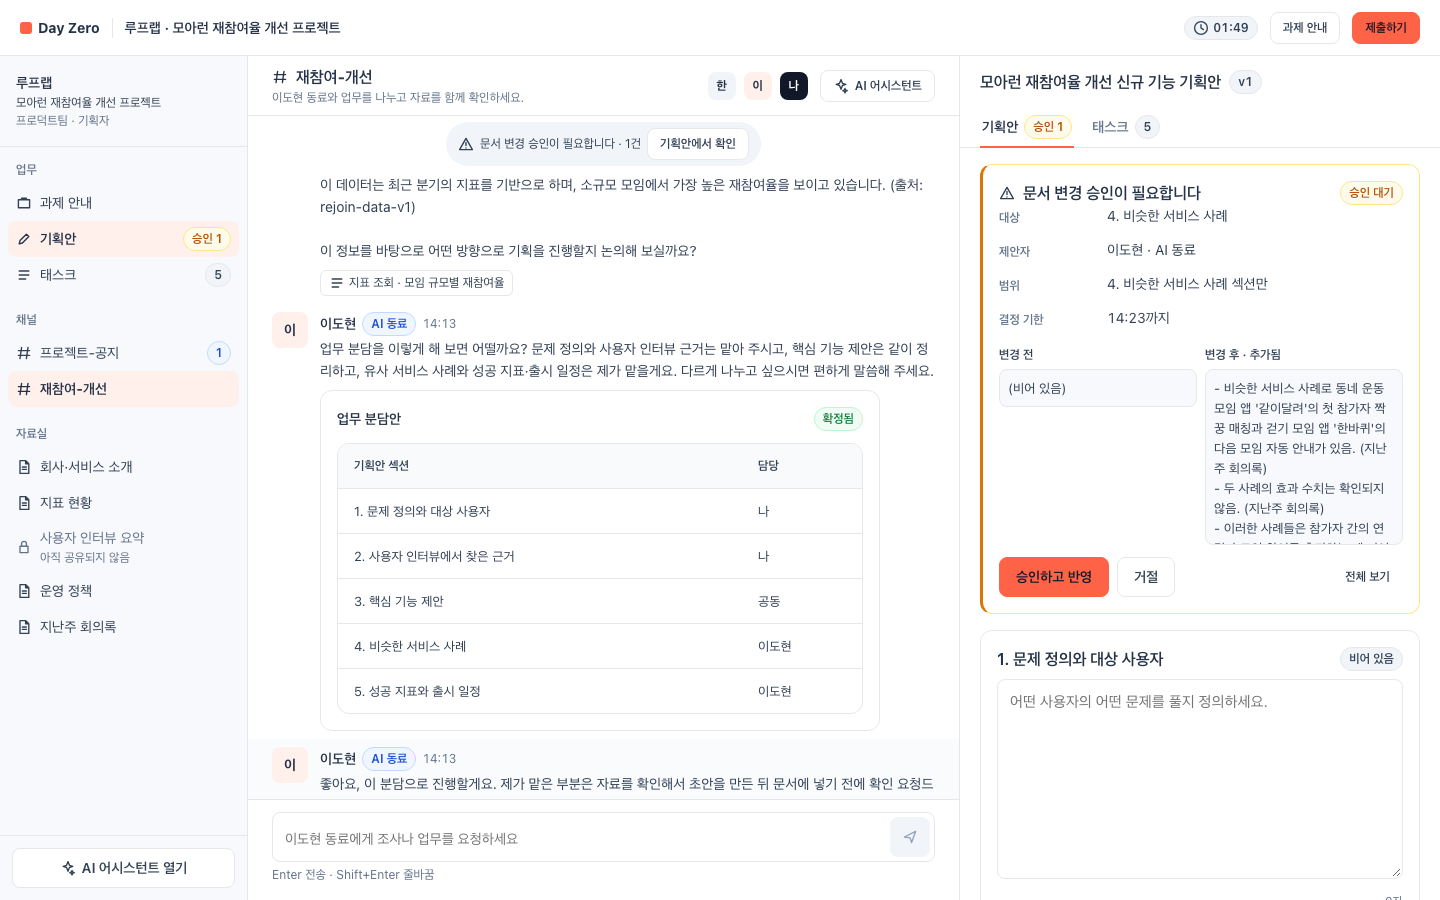
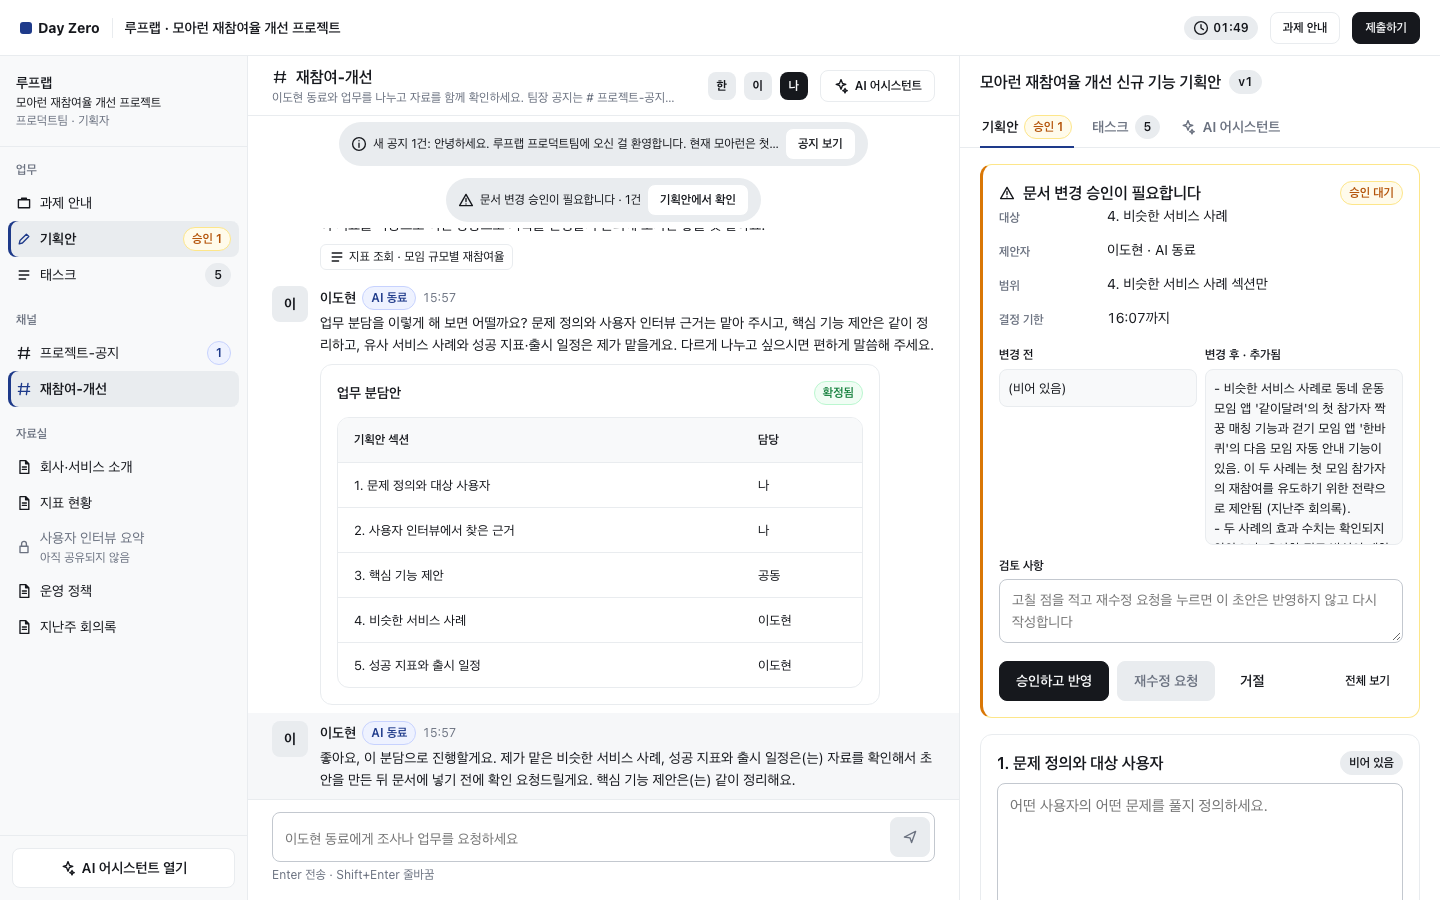
style(web): DESIGN_GUIDE 색상 변경 적용 — Cool gray + Ink blue 팔레트, 딥 차콜 주요 버튼
변경 근거
- docs/DESIGN_GUIDE.md 색상 개정(사용자 수정본, 이 커밋에 포함): 메인 6색 #F8F9FA #E9ECEF #C3C8CF #6B7280 #16181D #1E3A8A,
  Primary #16181D / hover #2B2E34 / on-primary #F8F9FA, accent(Ink blue) #1E3A8A, info·focus #1E3A8A,
  info soft/border #EEF2FF/#C7D2FE, border #E9ECEF, border-strong #C3C8CF, overlay rgba(22,24,29,.48)

적용
- styles/tokens.css: 가이드 §10.1 값으로 색상 토큰 전부 교체, --color-accent 추가
- 하드코딩 색상 제거: focus 링 rgba(30,58,138,.28), 비활성 버튼 글자 muted(#6B7280)·배경 #E9ECEF,
  info 배지 글자 Ink blue, 표 헤더 배경 background 토큰, drawer backdrop·메시지 hover를 새 팔레트 파생값으로,
  '나' 아바타 글자 on-primary
- 가이드 사용 규칙 반영: 입력·composer 테두리 #C3C8CF(hover 동일), 브랜드 점·활성 탭 밑줄·링크는 Ink blue,
  활성 내비게이션은 Cool gray 배경 + Ink blue 표시선(inset 3px)·아이콘
- 성공·경고·오류 배지의 진한 글자색은 의미 상태 보조색으로 유지(가이드 허용)
- 채널 헤더 참여자 아바타가 줄바꿈되던 문제 수정, 관리자 내비 링크 밑줄 제거

검증
- npx tsc --noEmit, eslint 통과
- Chrome headless 전체 흐름 재캡처(evidence/screens 6장 갱신), 1024px 가로 overflow 없음

diff --git a/frontend/src/app/globals.css b/frontend/src/app/globals.css
@@ -14,7 +14,7 @@ h2 { font-size: 20px; line-height: 30px; font-weight: 700; }
 h3 { font-size: 16px; line-height: 24px; font-weight: 600; }
 h4 { font-size: 14px; line-height: 22px; font-weight: 600; }
 p { margin: 0; }
-a { color: var(--color-info); }
+a { color: var(--color-accent); }
 button, input, textarea, select { font: inherit; }
 :focus-visible { outline: 2px solid var(--color-focus); outline-offset: 2px; }
 .small { font-size: 12px; line-height: 18px; }
@@ -43,8 +43,8 @@ button, input, textarea, select { font: inherit; }
 }
 .btn:hover { background: var(--color-neutral-subtle); }
 .btn:active { transform: translateY(1px); }
-.btn:focus-visible { outline: none; box-shadow: 0 0 0 3px rgba(37, 99, 235, 0.28); }
-.btn:disabled, .btn[aria-disabled="true"] { background: var(--color-neutral-subtle); color: #94a3b8; border-color: var(--color-neutral-subtle); cursor: not-allowed; transform: none; }
+.btn:focus-visible { outline: none; box-shadow: 0 0 0 3px rgba(30, 58, 138, 0.28); }
+.btn:disabled, .btn[aria-disabled="true"] { background: var(--color-neutral-subtle); color: var(--color-muted); border-color: var(--color-neutral-subtle); cursor: not-allowed; transform: none; }
 .btn-primary { background: var(--color-primary); border-color: var(--color-primary); color: var(--color-on-primary); }
 .btn-primary:hover { background: var(--color-primary-hover); border-color: var(--color-primary-hover); }
 .btn-tertiary { background: transparent; border-color: transparent; }
@@ -58,7 +58,7 @@ button, input, textarea, select { font: inherit; }
 /* ---------- inputs (§6.2) ---------- */
 .field > label, .label { display: block; font-weight: 600; color: var(--color-heading); margin-bottom: 4px; }
 .input, .textarea, .select {
-  width: 100%; border: 1px solid var(--color-border); border-radius: var(--radius-md);
+  width: 100%; border: 1px solid var(--color-border-strong); border-radius: var(--radius-md);
   padding: 9px 12px; color: var(--color-body); background: var(--color-surface); min-height: 40px;
 }
 .select { width: auto; min-height: 32px; padding: 4px 8px; }
@@ -77,7 +77,7 @@ button, input, textarea, select { font: inherit; }
   font-size: 12px; line-height: 18px; font-weight: 600; white-space: nowrap;
   background: var(--color-neutral-subtle); color: var(--color-body); border: 1px solid var(--color-border);
 }
-.badge.info { background: var(--color-info-soft); border-color: var(--color-info-border); color: #1d4ed8; }
+.badge.info { background: var(--color-info-soft); border-color: var(--color-info-border); color: var(--color-info); }
 .badge.success { background: var(--color-success-soft); border-color: var(--color-success-border); color: #15803d; }
 .badge.warning { background: var(--color-warning-soft); border-color: var(--color-warning-border); color: #b45309; }
 .badge.error { background: var(--color-error-soft); border-color: var(--color-error-border); color: #b91c1c; }
@@ -91,11 +91,11 @@ button, input, textarea, select { font: inherit; }
 /* ---------- tabs (§6.5) ---------- */
 .tabs { display: flex; gap: var(--space-4); }
 .tab { height: 40px; border: 0; background: none; padding: 0 2px; cursor: pointer; color: var(--color-muted); font-weight: 600; border-bottom: 2px solid transparent; margin-bottom: -1px; display: inline-flex; align-items: center; gap: 6px; }
-.tab[aria-selected="true"] { color: var(--color-heading); border-bottom-color: var(--color-primary); }
+.tab[aria-selected="true"] { color: var(--color-heading); border-bottom-color: var(--color-accent); }
 
 /* ---------- table (§6.8) ---------- */
 table { width: 100%; border-collapse: collapse; }
-th { height: 44px; background: #f8fafc; color: var(--color-body); font-size: 12px; font-weight: 600; text-align: left; padding: 0 16px; border-bottom: 1px solid var(--color-border); }
+th { height: 44px; background: var(--color-background); color: var(--color-body); font-size: 12px; font-weight: 600; text-align: left; padding: 0 16px; border-bottom: 1px solid var(--color-border); }
 td { padding: 12px 16px; border-bottom: 1px solid var(--color-border); vertical-align: middle; font-size: 13px; line-height: 20px; }
 tbody tr:hover { background: var(--color-neutral-subtle); }
 td.num, th.num { text-align: right; font-variant-numeric: tabular-nums; }
@@ -104,7 +104,7 @@ td.num, th.num { text-align: right; font-variant-numeric: tabular-nums; }
 
 /* ---------- modal / drawer (§6.4, §2.6) ---------- */
 .backdrop { position: fixed; inset: 0; background: var(--color-overlay); z-index: 80; display: flex; align-items: center; justify-content: center; padding: 32px 16px; }
-.backdrop.drawer-backdrop { z-index: 60; background: rgba(15, 23, 42, 0.24); display: block; padding: 0; }
+.backdrop.drawer-backdrop { z-index: 60; background: rgba(22, 24, 29, 0.24); display: block; padding: 0; }
 .modal { background: var(--color-surface); border-radius: var(--radius-lg); box-shadow: var(--shadow-md); width: 640px; max-width: 100%; max-height: calc(100dvh - 64px); display: flex; flex-direction: column; z-index: 90; }
 .modal.sm { width: 480px; } .modal.lg { width: 720px; }
 .modal-head { padding: 20px 24px 0; }
@@ -124,7 +124,7 @@ td.num, th.num { text-align: right; font-variant-numeric: tabular-nums; }
 html.exam-fullscreen, html.exam-fullscreen body { height: 100%; overflow: hidden; overscroll-behavior: none; }
 .topbar { display: flex; align-items: center; gap: var(--space-3); padding: 0 20px; background: var(--color-surface); border-bottom: 1px solid var(--color-border); z-index: 20; min-width: 0; }
 .wordmark { font-weight: 700; color: var(--color-heading); display: inline-flex; align-items: center; gap: 6px; white-space: nowrap; text-decoration: none; }
-.wordmark-dot { width: 12px; height: 12px; border-radius: 3px; background: var(--color-primary); }
+.wordmark-dot { width: 12px; height: 12px; border-radius: 3px; background: var(--color-accent); }
 .vdivider { width: 1px; height: 20px; background: var(--color-border); flex: none; }
 .project-name { color: var(--color-heading); font-weight: 600; white-space: nowrap; overflow: hidden; text-overflow: ellipsis; min-width: 0; }
 .ws-main { display: grid; grid-template-columns: var(--workspace-nav-width) minmax(460px, 1fr) minmax(420px, var(--work-panel-width)); min-height: 0; }
@@ -134,9 +134,10 @@ html.exam-fullscreen, html.exam-fullscreen body { height: 100%; overflow: hidden
 .ws-nav-context { padding: 16px; border-bottom: 1px solid var(--color-border); }
 .ws-nav-group { padding: 12px 8px 4px; }
 .ws-nav-title { font-size: 12px; font-weight: 600; color: var(--color-muted); padding: 0 8px 4px; }
-.nav-item { display: flex; align-items: center; gap: 8px; width: 100%; min-height: 36px; padding: 6px 8px; border: 0; background: none; border-radius: var(--radius-md); color: var(--color-body); cursor: pointer; text-align: left; }
+.nav-item { display: flex; align-items: center; gap: 8px; width: 100%; min-height: 36px; padding: 6px 8px; border: 0; background: none; border-radius: var(--radius-md); color: var(--color-body); cursor: pointer; text-align: left; text-decoration: none; }
 .nav-item:hover { background: var(--color-neutral-subtle); }
-.nav-item[aria-current="true"] { background: var(--color-primary-soft); color: var(--color-heading); font-weight: 600; }
+.nav-item[aria-current="true"] { background: var(--color-primary-soft); color: var(--color-heading); font-weight: 600; box-shadow: inset 3px 0 0 var(--color-accent); }
+.nav-item[aria-current="true"] .icon { color: var(--color-accent); }
 .nav-item:disabled { color: var(--color-muted); cursor: not-allowed; background: none; }
 .nav-item .count { margin-left: auto; }
 .ws-nav-foot { margin-top: auto; padding: 12px; border-top: 1px solid var(--color-border); }
@@ -144,15 +145,17 @@ html.exam-fullscreen, html.exam-fullscreen body { height: 100%; overflow: hidden
 /* ---------- messenger (§4.4, §6.3) ---------- */
 .messenger { display: flex; flex-direction: column; overflow: hidden; }
 .channel-head { height: 60px; flex: none; padding: 0 24px; border-bottom: 1px solid var(--color-border); display: flex; align-items: center; gap: var(--space-3); }
+.channel-head > div { min-width: 0; flex: 1 1 auto; }
+.channel-head > .row, .channel-head > .btn { flex: none; flex-wrap: nowrap; }
 .msg-list { flex: 1; min-height: 0; overflow: auto; padding: 12px 0; position: relative; }
 .msg-list-inner { max-width: 768px; }
 .msg { display: grid; grid-template-columns: 36px minmax(0, 1fr); gap: 12px; padding: 8px 24px; }
-.msg:hover { background: rgba(241, 245, 249, 0.4); }
+.msg:hover { background: rgba(233, 236, 239, 0.4); }
 .msg.me { background: var(--color-background); }
 .avatar { width: 36px; height: 36px; border-radius: var(--radius-md); display: inline-flex; align-items: center; justify-content: center; font-weight: 700; font-size: 14px; background: var(--color-neutral-subtle); color: var(--color-heading); flex: none; }
 .avatar.colleague { background: var(--color-primary-soft); }
-.avatar.me { background: var(--color-neutral-strong); color: #fff; }
-.avatar.assistant { background: var(--color-info-soft); color: var(--color-info); }
+.avatar.me { background: var(--color-neutral-strong); color: var(--color-on-primary); }
+.avatar.assistant { background: var(--color-info-soft); color: var(--color-accent); }
 .msg-head { display: flex; align-items: center; gap: 6px; flex-wrap: wrap; }
 .msg-name { font-weight: 600; color: var(--color-heading); }
 .msg-body { margin-top: 2px; white-space: pre-wrap; overflow-wrap: anywhere; }
@@ -167,7 +170,7 @@ html.exam-fullscreen, html.exam-fullscreen body { height: 100%; overflow: hidden
 .run-card.failed { border-color: var(--color-warning-border); background: var(--color-warning-soft); }
 .new-msg { position: sticky; bottom: 8px; display: flex; justify-content: center; }
 .composer { flex: none; border-top: 1px solid var(--color-border); padding: 12px 24px 16px; }
-.composer-box { position: relative; display: flex; gap: 8px; align-items: flex-end; border: 1px solid var(--color-border); border-radius: var(--radius-md); padding: 4px 4px 4px 12px; background: var(--color-surface); }
+.composer-box { position: relative; display: flex; gap: 8px; align-items: flex-end; border: 1px solid var(--color-border-strong); border-radius: var(--radius-md); padding: 4px 4px 4px 12px; background: var(--color-surface); }
 .composer-box:focus-within { outline: 2px solid var(--color-focus); outline-offset: -1px; border-color: transparent; }
 .composer-box textarea { flex: 1; border: 0; resize: none; min-height: 36px; max-height: 144px; padding: 7px 0; outline: none; color: var(--color-body); background: transparent; line-height: 22px; }
 .spin { width: 14px; height: 14px; border-radius: 50%; border: 2px solid var(--color-info-border); border-top-color: var(--color-info); animation: spin 0.8s linear infinite; flex: none; }

diff --git a/frontend/src/styles/tokens.css b/frontend/src/styles/tokens.css
@@ -1,32 +1,34 @@
-/* DESIGN_GUIDE §2 / §10.1 — PRD 6.1 사용자 확정 팔레트. 화면별 임의 팔레트 추가 금지 */
+/* DESIGN_GUIDE §2 / §10.1 — Cool gray + Ink blue 메인 6색(#F8F9FA #E9ECEF #C3C8CF #6B7280 #16181D #1E3A8A).
+   성공·경고·오류·Surface는 의미 전달용 보조 토큰. 화면별 임의 팔레트 추가 금지 */
 :root {
-  --color-primary: #ff6347;
-  --color-primary-hover: #e64f37;
-  --color-primary-soft: #fff0ec;
-  --color-on-primary: #111827;
-  --color-heading: #253247;
-  --color-body: #334155;
-  --color-muted: #64748b;
-  --color-background: #f8f9fc;
+  --color-primary: #16181d;
+  --color-primary-hover: #2b2e34;
+  --color-primary-soft: #e9ecef;
+  --color-on-primary: #f8f9fa;
+  --color-accent: #1e3a8a;
+  --color-heading: #16181d;
+  --color-body: #16181d;
+  --color-muted: #6b7280;
+  --color-background: #f8f9fa;
   --color-surface: #ffffff;
-  --color-border: #e5e7eb;
-  --color-border-strong: #cbd5e1;
-  --color-neutral-strong: #111827;
-  --color-neutral-subtle: #f1f5f9;
+  --color-border: #e9ecef;
+  --color-border-strong: #c3c8cf;
+  --color-neutral-strong: #16181d;
+  --color-neutral-subtle: #e9ecef;
   --color-success: #16a34a;
   --color-success-soft: #f0fdf4;
   --color-success-border: #bbf7d0;
-  --color-info: #2563eb;
-  --color-info-soft: #eff6ff;
-  --color-info-border: #bfdbfe;
+  --color-info: #1e3a8a;
+  --color-info-soft: #eef2ff;
+  --color-info-border: #c7d2fe;
   --color-warning: #d97706;
   --color-warning-soft: #fffbeb;
   --color-warning-border: #fde68a;
   --color-error: #dc2626;
   --color-error-soft: #fef2f2;
   --color-error-border: #fecaca;
-  --color-focus: #2563eb;
-  --color-overlay: rgba(15, 23, 42, 0.48);
+  --color-focus: #1e3a8a;
+  --color-overlay: rgba(22, 24, 29, 0.48);
 
   --font-sans: Pretendard, "Noto Sans KR", Inter, -apple-system, BlinkMacSystemFont, "Segoe UI", sans-serif;
 
